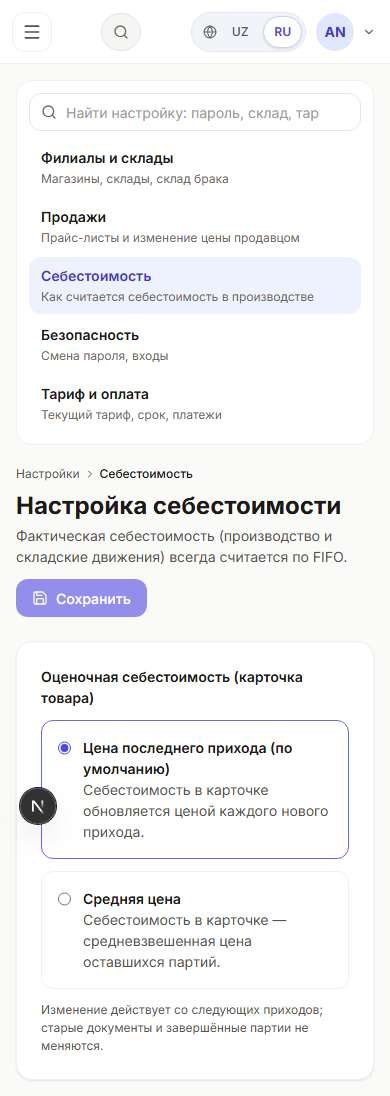
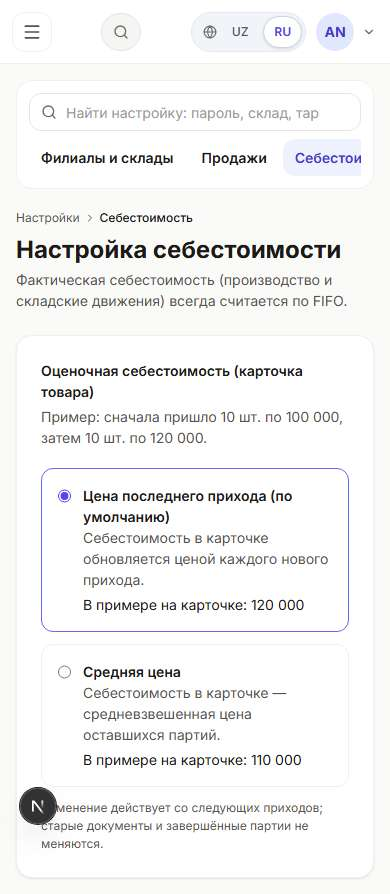
feat(ux): cost settings — a worked example for each method and the same "what will change" save bar
- "Example: 10 at 100 000, then 10 at 120 000" with what the card would
  show under each method (120 000 / 110 000).
- Save moves from the header into the shared settings save bar:
  "Last receipt price → Average price. Old documents do not change."
  with Discard / Save.
- Fix: after saving, the bar disappears (it compared with the first
  loaded value before, so Save stayed active after saving).

diff --git a/frontend/src/app/[locale]/(dashboard)/settings/production/page.tsx b/frontend/src/app/[locale]/(dashboard)/settings/production/page.tsx
@@ -42,6 +42,10 @@ function Form({ initial }: { initial: Method }) {
   const canEdit = hasPermission('settings:edit');
   const [method, setMethod] = useState<Method>(initial);
   const [saving, setSaving] = useState(false);
+  // What the server has now; the save bar compares the choice with it.
+  const [saved, setSaved] = useState<Method>(initial);
+  const tset = useTranslations('rd.settings');
+  const tc = useTranslations('rd.costSettings');
 
   const save = async () => {
     if (!token || !company) return;
@@ -55,6 +59,7 @@ function Form({ initial }: { initial: Method }) {
         body: JSON.stringify({ production: { estimatedCostMethod: method } }),
       });
       if (updated) updateCompanySettings(updated);
+      setSaved(method);
       toast.success(t('sozlamaSaqlandi'));
     } catch (error) {
       toast.error(errorMessage(error) || t('saqlabBolmadi'));
@@ -82,18 +87,12 @@ function Form({ initial }: { initial: Method }) {
         <PageHeader
           title={t('tannarxSozlamasi')}
           subtitle={t('haqiqiyTannarxIshlabChiqarishVa')}
-          actions={
-            canEdit ? (
-              <Button onClick={() => void save()} disabled={method === initial} loading={saving} loadingText={t('saqlanmoqda')}>
-                <Save size={16} aria-hidden /> {t('saqlash')}
-              </Button>
-            ) : undefined
-          }
         />
       </div>
       <Card style={{ padding: 'var(--space-6)' }}>
         <fieldset disabled={!canEdit} style={{ border: 'none', margin: 0, padding: 0, display: 'flex', flexDirection: 'column', gap: 12 }}>
-          <legend style={{ fontWeight: 600, marginBottom: 12, color: 'var(--color-text-primary)' }}>{t('taxminiyTannarxTovarKartasi')}</legend>
+          <legend style={{ fontWeight: 600, marginBottom: 4, color: 'var(--color-text-primary)' }}>{t('taxminiyTannarxTovarKartasi')}</legend>
+          <p style={{ margin: '0 0 8px', fontSize: 'var(--text-sm)', color: 'var(--color-text-secondary)' }}>{tc('example')}</p>
           {options.map((option) => (
             <label
               key={option.value}
@@ -103,6 +102,7 @@ function Form({ initial }: { initial: Method }) {
               <span>
                 <span style={{ display: 'block', fontWeight: 600, color: 'var(--color-text-primary)' }}>{option.title}</span>
                 <span style={{ display: 'block', fontSize: 'var(--text-sm)', color: 'var(--color-text-secondary)' }}>{option.text}</span>
+                <span style={{ display: 'block', fontSize: 'var(--text-sm)', color: 'var(--color-text-primary)', marginTop: 4 }}>{tc(option.value === 'LAST' ? 'exampleLast' : 'exampleAverage')}</span>
               </span>
             </label>
           ))}
@@ -113,6 +113,23 @@ function Form({ initial }: { initial: Method }) {
           </p>
         </fieldset>
       </Card>
+
+      {canEdit && method !== saved && (
+        <div className="set-savebar" role="region" aria-label={tset('unsaved', { count: 1 })}>
+          <div style={{ flex: 1, minWidth: 220 }}>
+            <strong style={{ fontSize: 'var(--text-sm)' }}>{tset('unsaved', { count: 1 })}</strong>
+            <div style={{ fontSize: 'var(--text-sm)', color: 'var(--color-text-secondary)', marginTop: 2 }}>
+              {tc('change', { from: options.find((o) => o.value === saved)?.title ?? saved, to: options.find((o) => o.value === method)?.title ?? method })}
+            </div>
+          </div>
+          <Button variant="ghost" onClick={() => setMethod(saved)} disabled={saving}>
+            {tset('discard')}
+          </Button>
+          <Button onClick={() => void save()} loading={saving} loadingText={t('saqlanmoqda')}>
+            <Save size={16} aria-hidden /> {t('saqlash')}
+          </Button>
+        </div>
+      )}
     </div>
   );
 }
